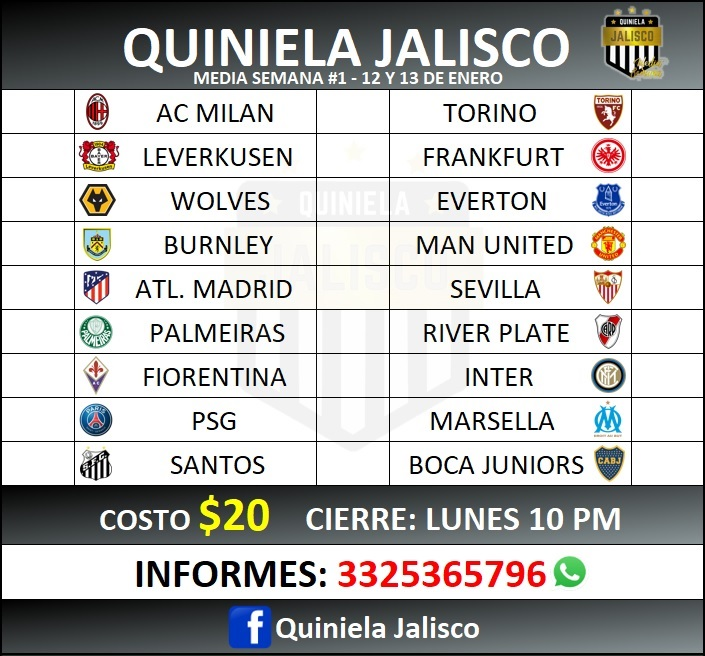
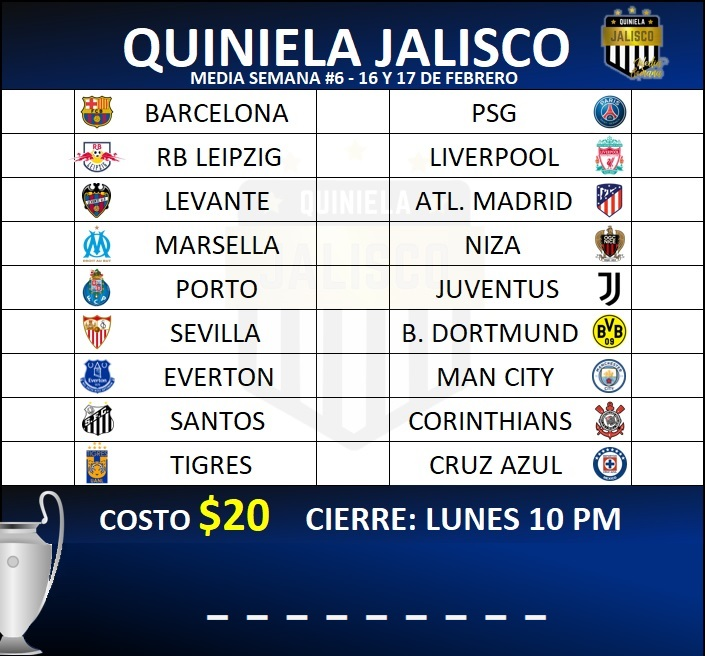
Media Semana #6

diff --git a/MediaSemana/stylesm.css b/MediaSemana/stylesm.css
@@ -7,7 +7,7 @@
 
 .quiniela{
     margin: auto;
-    background-image: url("https://scontent.fgdl9-1.fna.fbcdn.net/v/t1.15752-9/147073694_870433950414005_7785797545442184828_n.png?_nc_cat=107&ccb=2&_nc_sid=ae9488&_nc_eui2=AeEwM8Il0fL7CpYDE2C0d4jZUZnAnFZBOb1RmcCcVkE5vbM9jfx1sEvIcUTZWQFM-dcCEK-l8Irhc0tWJ7FRyDSy&_nc_ohc=rOuCjYUIpzcAX81tWZM&_nc_ht=scontent.fgdl9-1.fna&oh=68d9672c6f0541aa034fc13ca7f93f25&oe=60445DB6");
+    background-image: url("https://scontent.fgdl9-1.fna.fbcdn.net/v/t1.15752-9/148206146_182152416578916_6872693761887061556_n.png?_nc_cat=100&ccb=3&_nc_sid=ae9488&_nc_eui2=AeGph-F8d5VhRJHl-PPgct1QiyZxdOJnnZ-LJnF04mednwLKcBA-rflBngZFUf9GPIKQj-SizVfBHOov14ek6Nyb&_nc_ohc=15NOf84tPjAAX9bwjUk&_nc_ht=scontent.fgdl9-1.fna&oh=a61621b4fe37e7f9cabe532dc27b21b3&oe=604ED7F1");
     background-size: 100%;
     background-repeat: no-repeat;
     max-width: 400px;
@@ -84,8 +84,8 @@ h1{
     margin-top: 8%;
     border: solid 1px black;
     border-radius: 0 0 20px 20px;
-    background: -webkit-linear-gradient(0.04turn, black  ,rgb(0,112,50) 80%);
-    background: linear-gradient(0.04turn, black  ,rgb(0,112,50) 80%);
+    background: -webkit-linear-gradient(0.04turn, black  ,rgb(1,46,131) 80%);
+    background: linear-gradient(0.04turn, black  ,rgb(1,46,131) 80%);
     font-size: x-large;
 }
 
